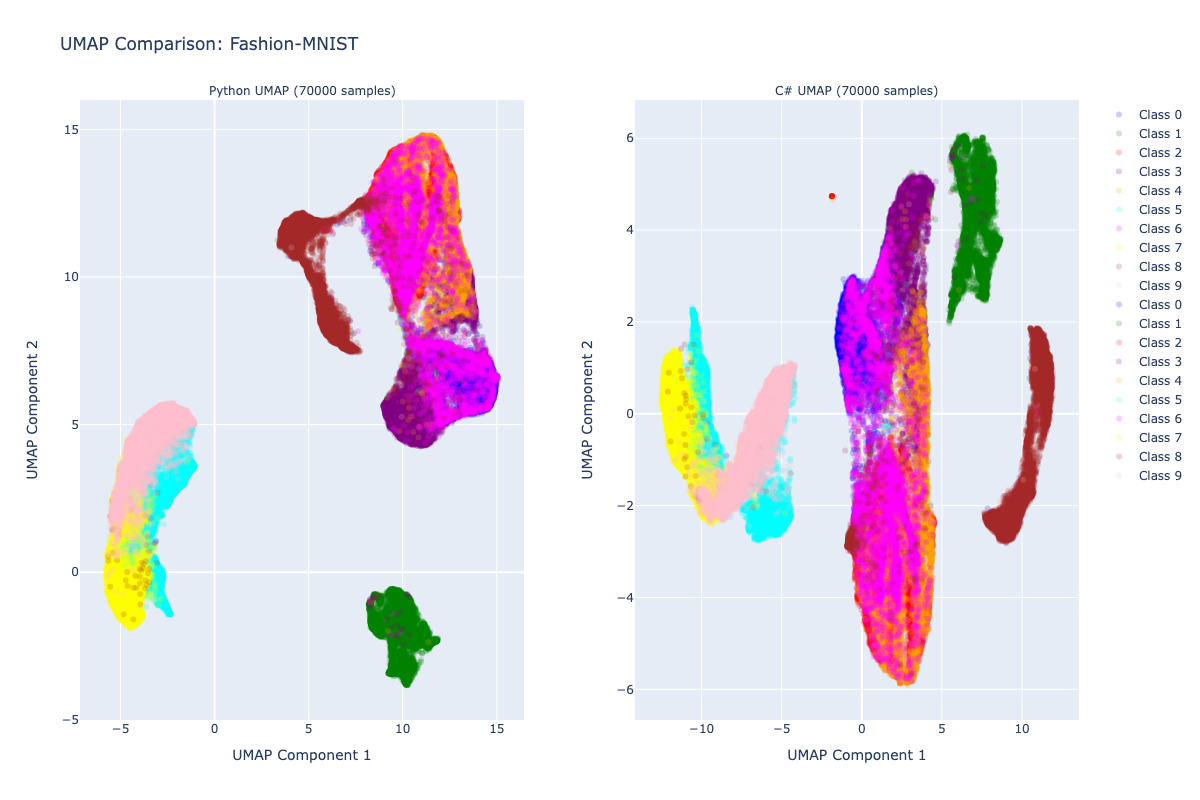
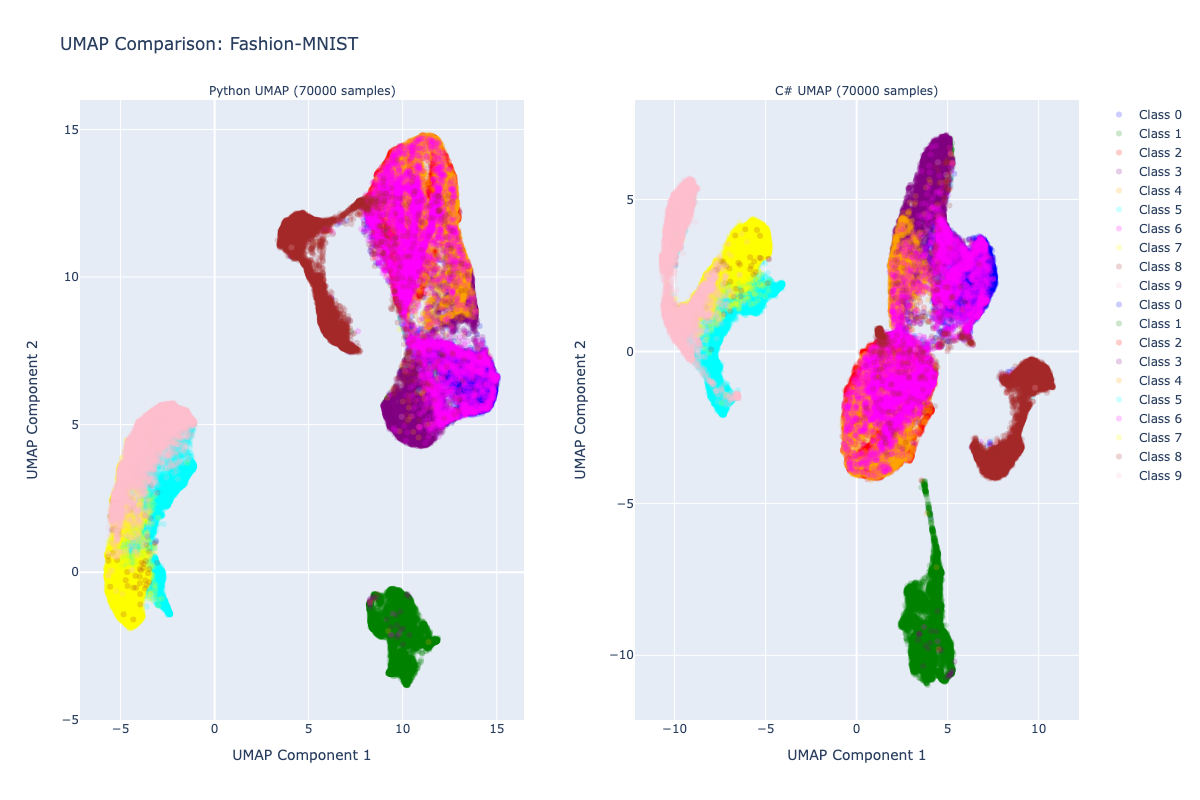
feat: sparse matrix optimizations

Changed region(s): [[0.5242, 0.1562, 0.8942, 0.875], [0.4625, 0.4375, 0.4933, 0.5938], [0.555, 0.9062, 0.5858, 0.9375]]

diff --git a/src/Flowthru.Extensions.ML/UMAP/Strategies/GraphRefinement/Implementations/AdaptiveThresholding.cs b/src/Flowthru.Extensions.ML/UMAP/Strategies/GraphRefinement/Implementations/AdaptiveThresholding.cs
@@ -1,4 +1,5 @@
 using MathNet.Numerics.LinearAlgebra.Single;
+using MathNet.Numerics.LinearAlgebra.Storage;
 
 namespace Flowthru.Extensions.ML.UMAP.Strategies.GraphRefinement.Implementations;
 
@@ -18,10 +19,14 @@ namespace Flowthru.Extensions.ML.UMAP.Strategies.GraphRefinement.Implementations
 /// than once have negligible impact on the final embedding.
 /// </para>
 /// <para>
+/// <b>Implementation:</b> Uses direct CSR (Compressed Sparse Row) storage manipulation for
+/// O(nnz) performance. Single-pass filter through non-zero entries only, avoiding O(n²) iteration.
+/// </para>
+/// <para>
 /// <b>Time complexity:</b> O(nnz) where nnz is the number of non-zero entries in the graph
 /// </para>
 /// <para>
-/// <b>Space complexity:</b> O(1) - operates in-place on the input matrix
+/// <b>Space complexity:</b> O(nnz) - creates new storage arrays during filtering
 /// </para>
 /// <para>
 /// Python UMAP reference: Lines 1063-1076 in <c>simplicial_set_embedding()</c>
@@ -33,7 +38,7 @@ public sealed class AdaptiveThresholding : IGraphRefinementStrategy
   private const int MinEpochsForDynamicThreshold = 10;
 
   /// <summary>
-  /// Refines the graph by removing edges below an adaptive threshold.
+  /// Refines the graph by removing edges below an adaptive threshold using CSR direct access.
   /// </summary>
   /// <param name="graph">Fuzzy simplicial set to refine (modified in-place).</param>
   /// <param name="nEpochs">Number of optimization epochs planned.</param>
@@ -42,9 +47,30 @@ public sealed class AdaptiveThresholding : IGraphRefinementStrategy
   {
     ValidateInputs(graph, nEpochs);
 
-    var maxWeight = ComputeMaxWeight(graph);
+    // Extract CSR storage
+    var storage = graph.Storage as SparseCompressedRowMatrixStorage<float>;
+    if (storage == null)
+    {
+      throw new InvalidOperationException(
+        "Graph must use CSR (SparseCompressedRowMatrixStorage) format. "
+          + $"Found: {graph.Storage.GetType().Name}"
+      );
+    }
+
+    // Compute threshold
+    var maxWeight = ComputeMaxWeight(storage);
     var threshold = ComputeThreshold(maxWeight, nEpochs);
-    var edgesRemoved = ApplyThreshold(graph, threshold);
+
+    // Filter edges in single pass through CSR arrays
+    var (newStorage, edgesRemoved) = FilterCsrStorage(storage, threshold);
+
+    // Replace the graph's storage with filtered version
+    // Create new matrix from storage and copy back to maintain in-place semantics
+    var refinedGraph = new SparseMatrix(newStorage);
+
+    // Copy filtered data back into original matrix
+    graph.Clear();
+    graph.SetSubMatrix(0, 0, refinedGraph);
 
     return new GraphRefinementResult(
       RefinedGraph: graph,
@@ -76,17 +102,21 @@ public sealed class AdaptiveThresholding : IGraphRefinementStrategy
   }
 
   /// <summary>
-  /// Computes the maximum edge weight in the graph.
+  /// Computes the maximum edge weight by scanning CSR values array.
   /// </summary>
-  private static float ComputeMaxWeight(SparseMatrix graph)
+  /// <remarks>
+  /// O(nnz) scan through values array - much faster than O(n²) matrix iteration.
+  /// </remarks>
+  private static float ComputeMaxWeight(SparseCompressedRowMatrixStorage<float> storage)
   {
-    var maxWeight = 0.0f;
+    var values = storage.Values;
+    float maxWeight = 0.0f;
 
-    foreach (var (_, _, value) in graph.EnumerateIndexed())
+    for (int i = 0; i < storage.ValueCount; i++)
     {
-      if (value > maxWeight)
+      if (values[i] > maxWeight)
       {
-        maxWeight = value;
+        maxWeight = values[i];
       }
     }
 
@@ -109,62 +139,89 @@ public sealed class AdaptiveThresholding : IGraphRefinementStrategy
   }
 
   /// <summary>
-  /// Applies the threshold to the graph, zeroing out edges below it.
-  /// Returns the number of edges removed.
+  /// Filters CSR storage arrays by threshold in a single pass.
   /// </summary>
-  private static int ApplyThreshold(SparseMatrix graph, float threshold)
+  /// <remarks>
+  /// <para>
+  /// This is the core optimization: instead of iterating over all n² positions,
+  /// we iterate only over the nnz non-zero entries and copy those above threshold.
+  /// </para>
+  /// <para>
+  /// <b>Algorithm:</b>
+  /// </para>
+  /// <code>
+  /// For each row:
+  ///   Read entries from old storage [rowStart..rowEnd)
+  ///   Copy entries >= threshold to new arrays
+  ///   Update new RowPointers[row] with write position
+  /// </code>
+  /// </remarks>
+  private static (
+    SparseCompressedRowMatrixStorage<float> newStorage,
+    int edgesRemoved
+  ) FilterCsrStorage(SparseCompressedRowMatrixStorage<float> storage, float threshold)
   {
-    var edgesRemoved = 0;
+    int nRows = storage.RowCount;
+    int nCols = storage.ColumnCount;
 
-    // Zero out entries below threshold
-    for (var i = 0; i < graph.RowCount; i++)
+    // Pre-allocate with current capacity (will shrink)
+    var newValues = new List<float>(storage.ValueCount);
+    var newColumnIndices = new List<int>(storage.ValueCount);
+    var newRowPointers = new int[nRows + 1];
+
+    int edgesRemoved = 0;
+    int writePos = 0;
+
+    // Single pass through all rows
+    for (int row = 0; row < nRows; row++)
     {
-      for (var j = 0; j < graph.ColumnCount; j++)
+      newRowPointers[row] = writePos;
+
+      int rowStart = storage.RowPointers[row];
+      int rowEnd = storage.RowPointers[row + 1];
+
+      // Process all entries in this row
+      for (int idx = rowStart; idx < rowEnd; idx++)
       {
-        var value = graph[i, j];
-        if (value > 0 && value < threshold)
+        float value = storage.Values[idx];
+
+        if (value >= threshold)
         {
-          graph[i, j] = 0;
+          // Keep this edge
+          newValues.Add(value);
+          newColumnIndices.Add(storage.ColumnIndices[idx]);
+          writePos++;
+        }
+        else
+        {
+          // Remove this edge
           edgesRemoved++;
         }
       }
     }
 
-    // Remove zeros from sparse storage to reclaim memory
-    // This is critical for maintaining performance in subsequent operations
-    if (edgesRemoved > 0)
+    // Final row pointer marks end of data
+    newRowPointers[nRows] = writePos;
+
+    // Create new CSR storage with filtered data using indexed format
+    // Build indexed enumerable from the filtered CSR arrays
+    var indexedEntries = new List<(int row, int col, float value)>(writePos);
+    for (int row = 0; row < nRows; row++)
     {
-      EliminateZeros(graph);
-    }
-
-    return edgesRemoved;
-  }
-
-  /// <summary>
-  /// Removes zero entries from the sparse matrix storage.
-  /// </summary>
-  /// <remarks>
-  /// MathNet's SparseMatrix doesn't have a built-in EliminateZeros method,
-  /// so we rebuild the matrix with only non-zero entries.
-  /// </remarks>
-  private static void EliminateZeros(SparseMatrix graph)
-  {
-    var builder = SparseMatrix.Build;
-    var nonZeroEntries = new List<(int row, int col, float value)>();
-
-    foreach (var (i, j, value) in graph.EnumerateIndexed())
-    {
-      if (value != 0)
+      int start = newRowPointers[row];
+      int end = newRowPointers[row + 1];
+      for (int idx = start; idx < end; idx++)
       {
-        nonZeroEntries.Add((i, j, value));
+        indexedEntries.Add((row, newColumnIndices[idx], newValues[idx]));
       }
     }
 
-    // Clear and rebuild
-    graph.Clear();
-    foreach (var (i, j, value) in nonZeroEntries)
-    {
-      graph[i, j] = value;
-    }
+    var newStorage = SparseCompressedRowMatrixStorage<float>.OfIndexedEnumerable(
+      nRows,
+      nCols,
+      indexedEntries
+    );
+
+    return (newStorage, edgesRemoved);
   }
 }

diff --git a/src/Flowthru.Extensions.ML/UMAP/Core/Utils/StrategyResolver.cs b/src/Flowthru.Extensions.ML/UMAP/Core/Utils/StrategyResolver.cs
@@ -77,9 +77,12 @@ internal static class StrategyResolver
 
   /// <summary>
   /// Auto-selects graph refinement strategy.
-  /// Currently always returns AdaptiveThresholding (Python UMAP default).
+  /// Uses CSR-optimized AdaptiveThresholding (Python UMAP default).
   /// </summary>
-  public static IGraphRefinementStrategy ResolveGraphRefinement(int verbosity)
+  /// <param name="shape">Data characteristics (unused, kept for API compatibility)</param>
+  /// <param name="verbosity">Verbosity level for logging</param>
+  /// <returns>Graph refinement strategy</returns>
+  public static IGraphRefinementStrategy ResolveGraphRefinement(DataShape shape, int verbosity)
   {
     if (verbosity >= 2)
     {

diff --git a/src/Flowthru.Extensions.ML/UMAP/Core/UmapPipelineBuilder.cs b/src/Flowthru.Extensions.ML/UMAP/Core/UmapPipelineBuilder.cs
@@ -148,7 +148,7 @@ public sealed class UmapPipelineBuilder
       membershipStrength: _membershipStrength
         ?? StrategyResolver.ResolveMembershipStrength(_parameters.Verbosity),
       graphRefinement: _graphRefinement
-        ?? StrategyResolver.ResolveGraphRefinement(_parameters.Verbosity),
+        ?? StrategyResolver.ResolveGraphRefinement(shape, _parameters.Verbosity),
       layoutInit: _layoutInit ?? StrategyResolver.ResolveLayoutInit(_parameters.Verbosity),
       samplingSchedule: _samplingSchedule
         ?? StrategyResolver.ResolveSamplingSchedule(_parameters.Verbosity),
